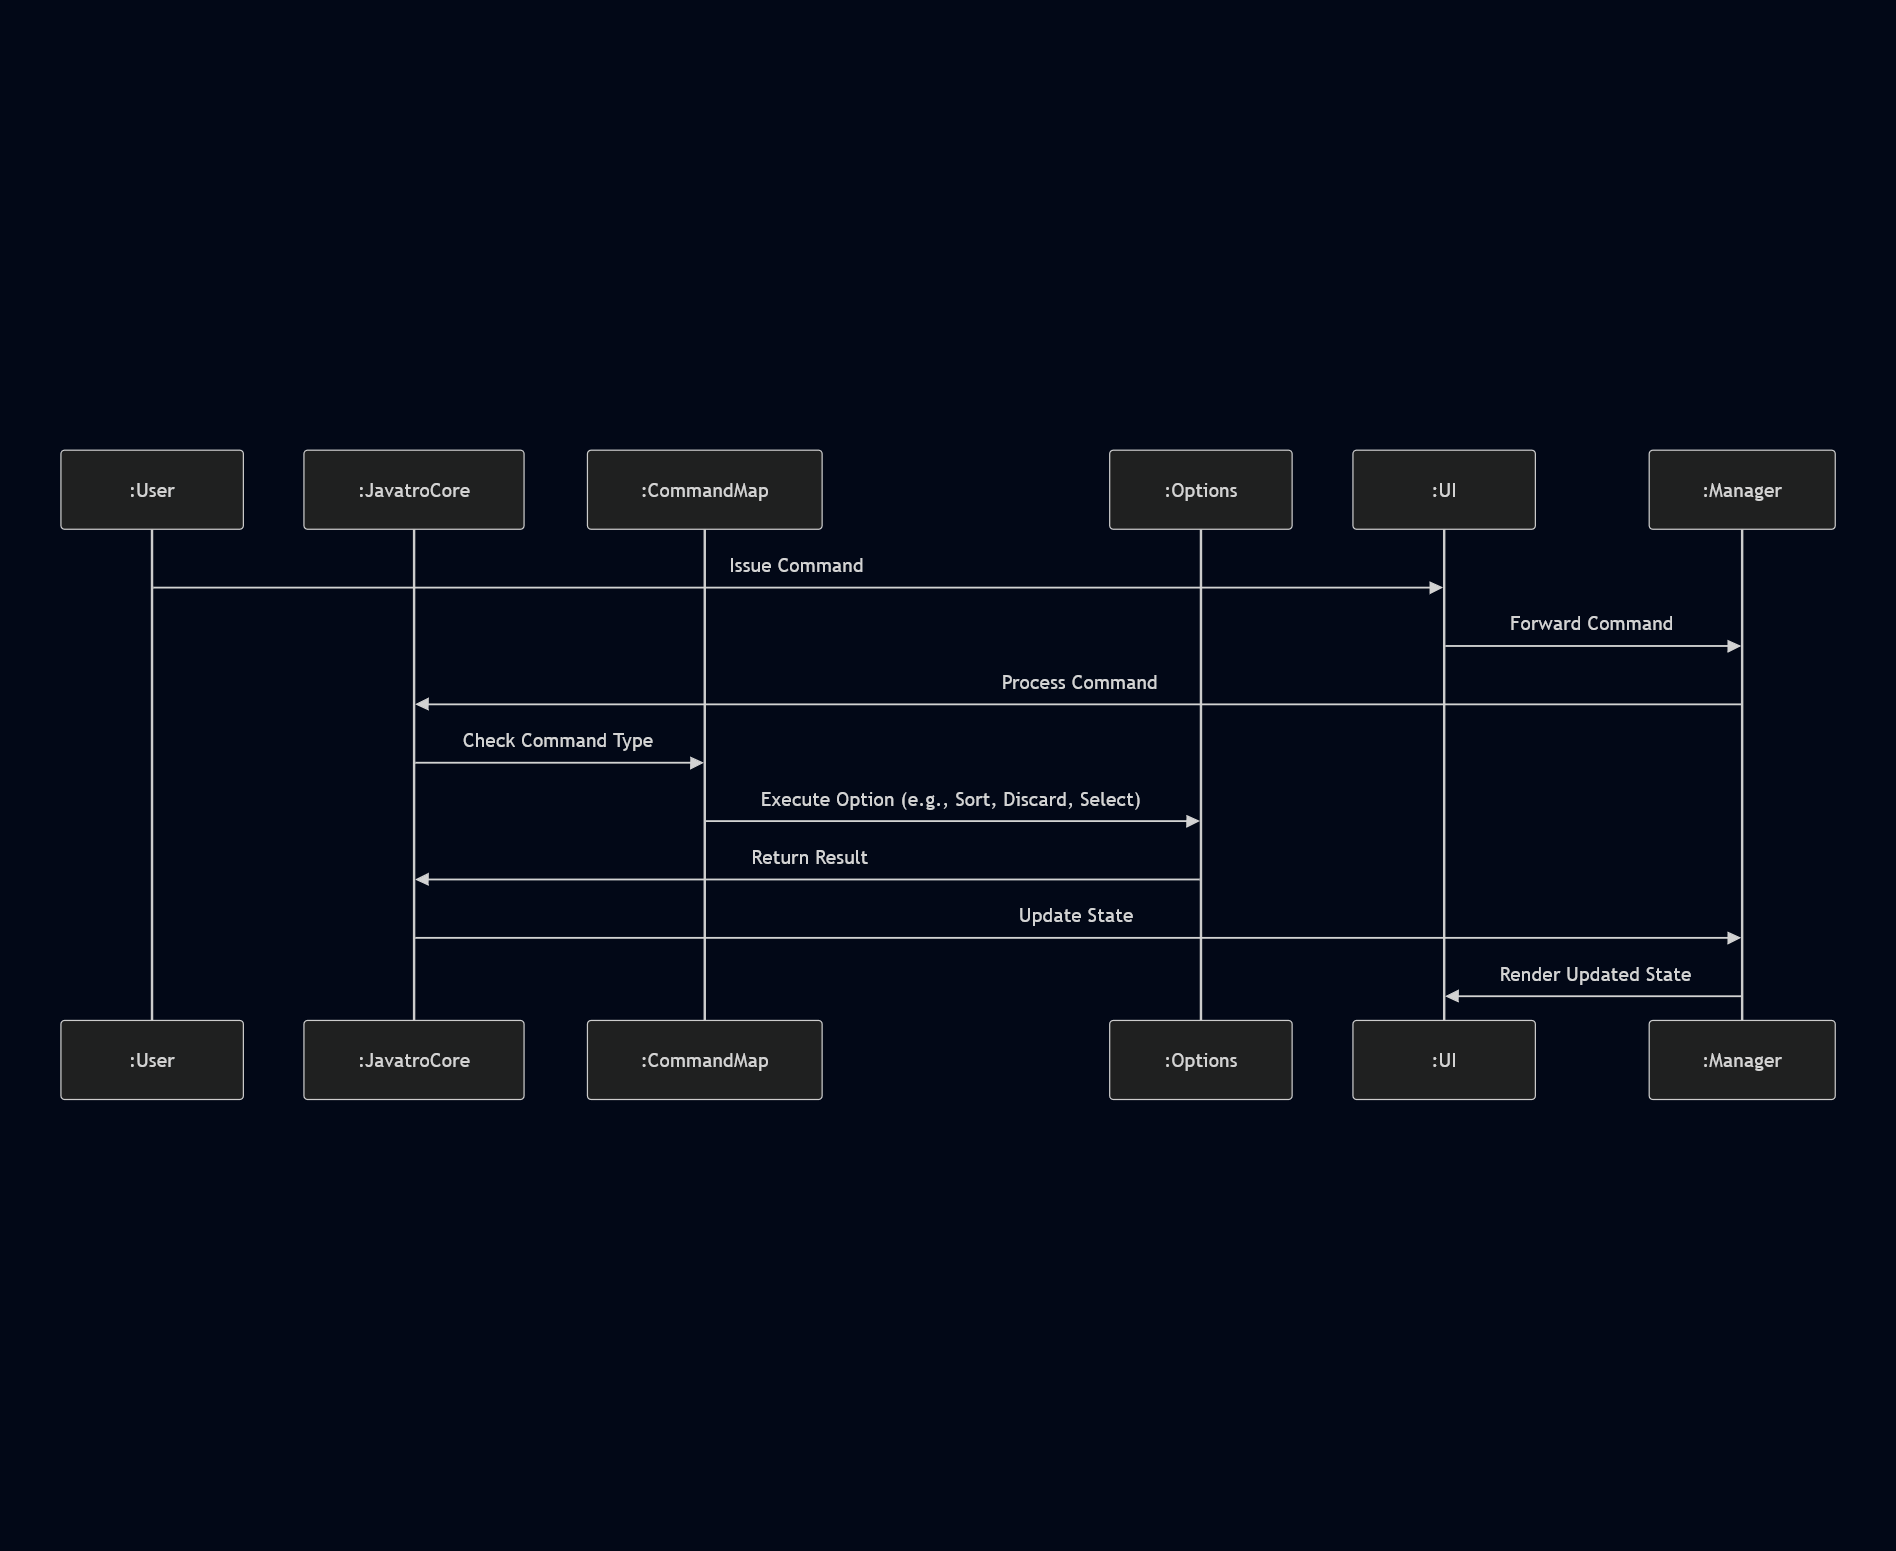
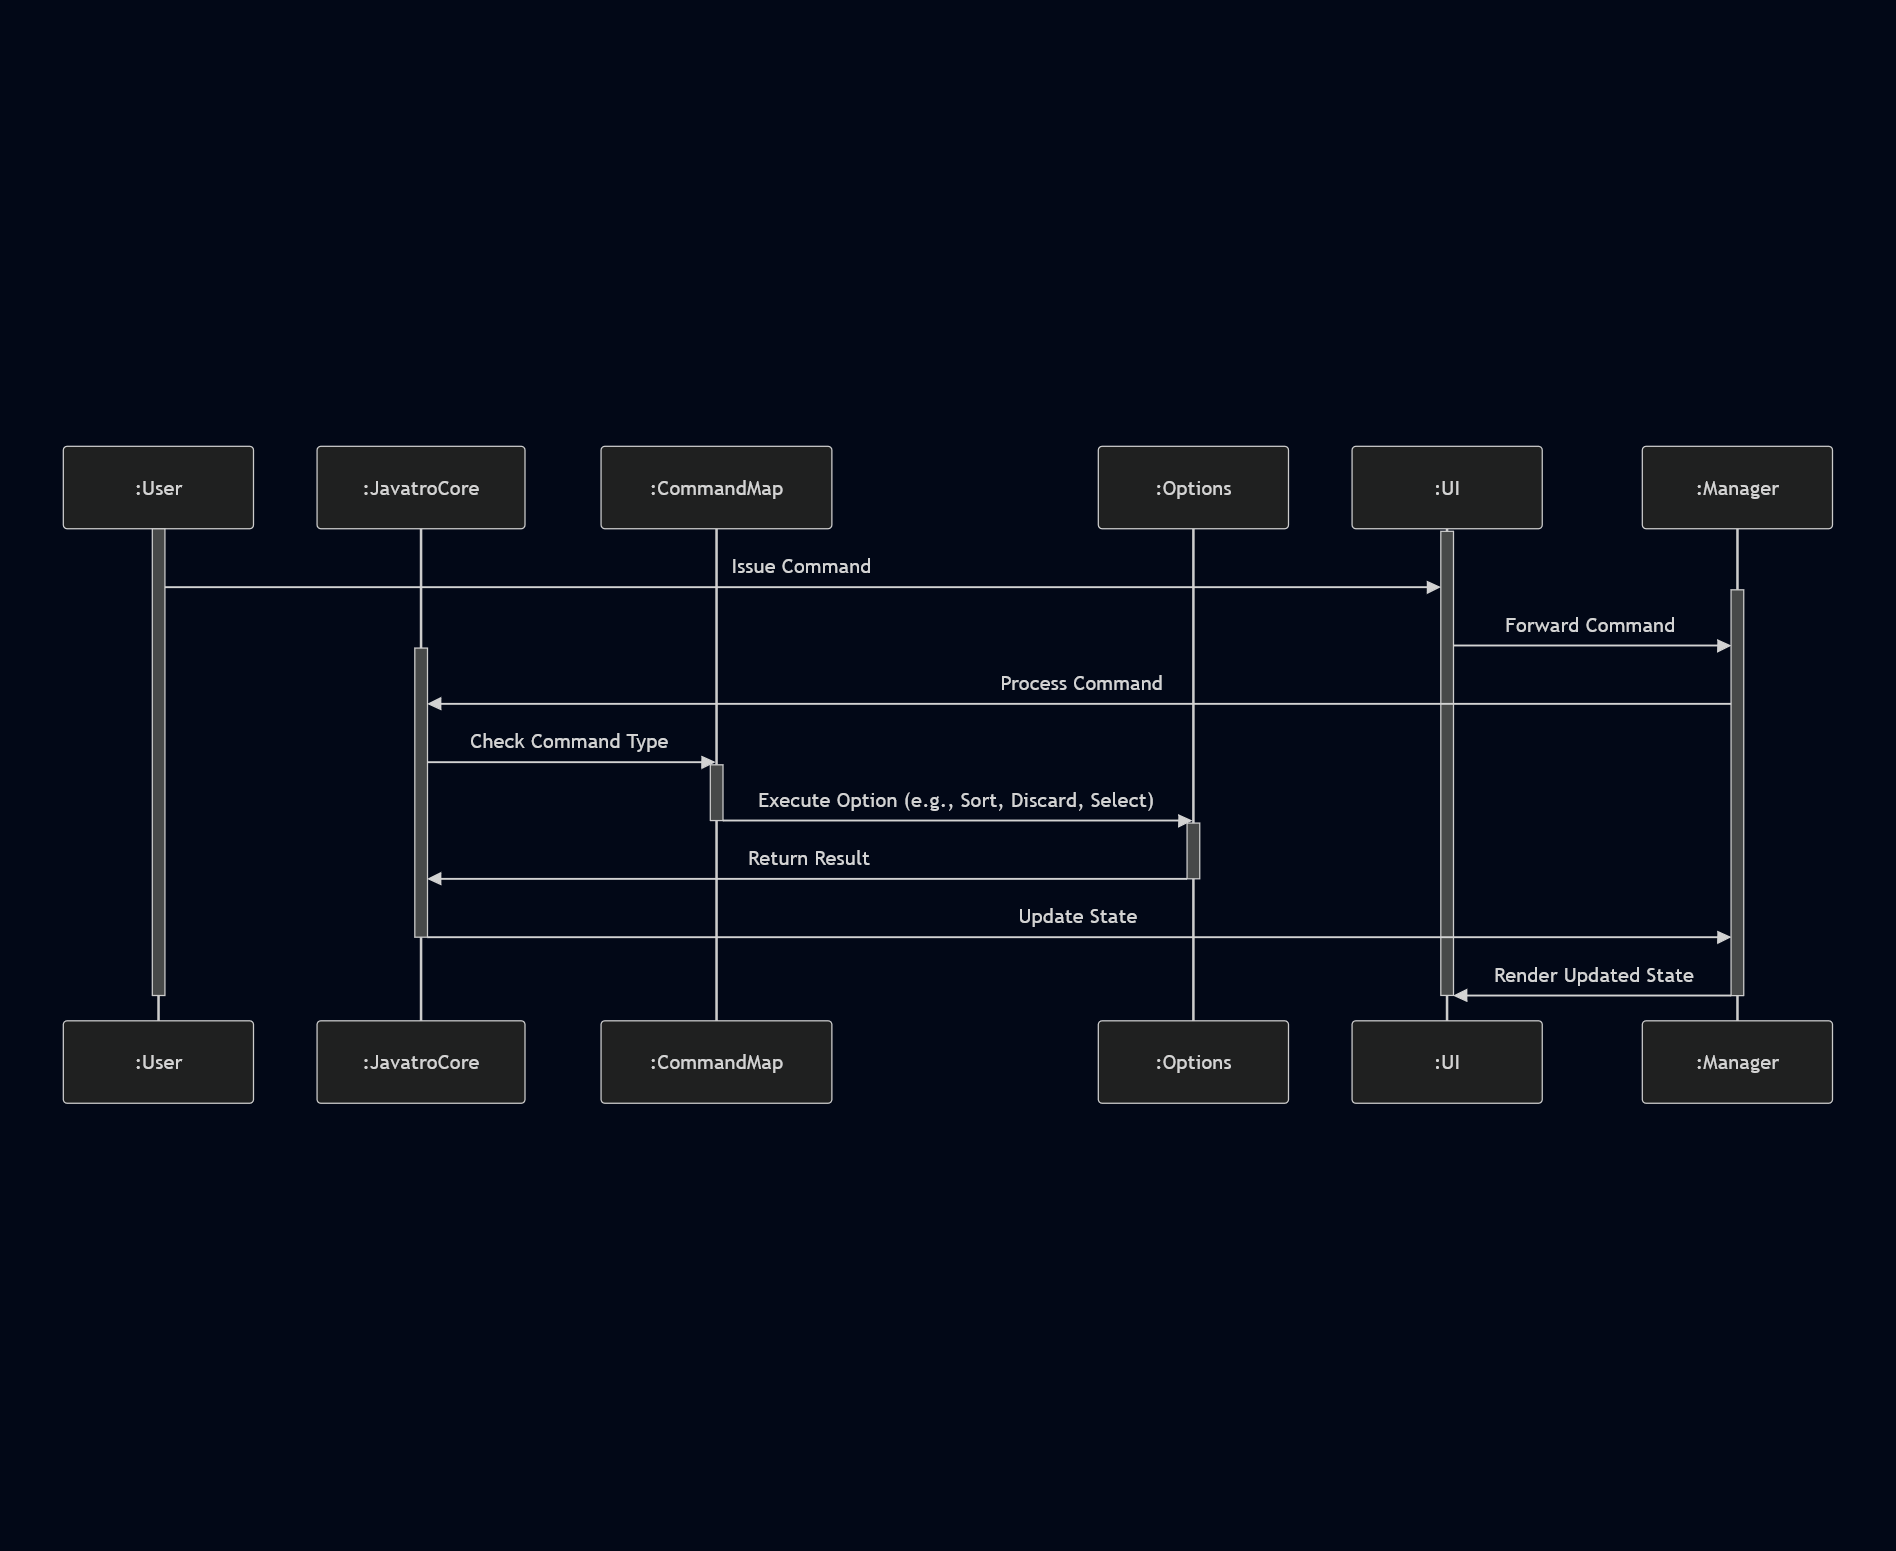
Fix some sequence diagrams

diff --git a/docs/AboutUs.md b/docs/AboutUs.md
@@ -6,4 +6,4 @@ Display |       Name       | Github Profile | Portfolio
 ![](https://nus.instructure.com/images/thumbnails/1889759/an0Mp6dUc8X7JQSsTru3w37v24OKL2CvjasETO58) |  Neeraj Kumbar   | [Github](https://github.com/flyingapricot) | [Portfolio](docs/team/neerajkumbar.md)
 ![gumball.jpg](https://encrypted-tbn0.gstatic.com/images?q=tbn:ANd9GcRgZ7j0HTP8PmUJFy4_7VREGM8F625LVsfXXQ&s) | Mark Neo Qi Hao  | [Github](https://github.com/Markneoneo) | [Portfolio](team/markneoneo.md)
 ![](https://images.unsplash.com/photo-1529778873920-4da4926a72c2?ixid=MnwxMjA3fDB8MHxzZWFyY2h8MXx8Y3V0ZSUyMGNhdHxlbnwwfHwwfHw%3D&ixlib=rb-1.2.1&w=1000&q=80) | Saravanan Swetha | [Github](https://github.com/swethacool) | [Portfolio](docs/team/saravananswetha.md)
-![](https://avatars.githubusercontent.com/u/63852595?v=4)| John Woo Yi Kai  | [Github](https://github.com/jwyk) | [Portfolio](docs/team/johnwooyikai.md)
+![](https://avatars.githubusercontent.com/u/63852595?v=4)| John Woo Yi Kai  | [Github](https://github.com/jwyk) | [Portfolio](docs/team/jwyk.md)

diff --git a/docs/dg_diagrams/Logic SD.md b/docs/dg_diagrams/Logic SD.md
@@ -6,13 +6,24 @@ sequenceDiagram
     participant #58;Options
     participant #58;UI
     participant #58;Manager
-
+    activate #58;User
+    activate #58;UI
     #58;User ->> #58;UI: Issue Command
+    activate #58;Manager
     #58;UI ->> #58;Manager: Forward Command
+    activate #58;JavatroCore
     #58;Manager ->> #58;JavatroCore: Process Command
     #58;JavatroCore ->> #58;CommandMap: Check Command Type
+    activate #58;CommandMap
     #58;CommandMap ->> #58;Options: Execute Option (e.g., Sort, Discard, Select)
+    deactivate #58;CommandMap
+    activate #58;Options
     #58;Options ->> #58;JavatroCore: Return Result
+    deactivate #58;Options
     #58;JavatroCore ->> #58;Manager: Update State
+    deactivate #58;JavatroCore
     #58;Manager ->> #58;UI: Render Updated State
+    deactivate #58;Manager
+    deactivate #58;UI
+    deactivate #58;User
 ```

diff --git a/docs/dg_diagrams/GameplayEnhance SD.md b/docs/dg_diagrams/GameplayEnhance SD.md
@@ -1,0 +1,18 @@
+```mermaid  
+sequenceDiagram  
+    actor User  
+    participant UI  
+    participant StartScreen  
+    participant GameScreen  
+    activate UI
+    User->>UI: Enters "play" command  
+    activate UI
+    UI->>UI: setCurrentScreen(GameScreen)  
+    deactivate UI
+    activate StartScreen
+    UI->>StartScreen: Save as previousScreen  
+    deactivate StartScreen
+    UI->>+GameScreen: displayScreen()  
+    GameScreen-->>-UI: Rendered content  
+    deactivate UI
+```  
